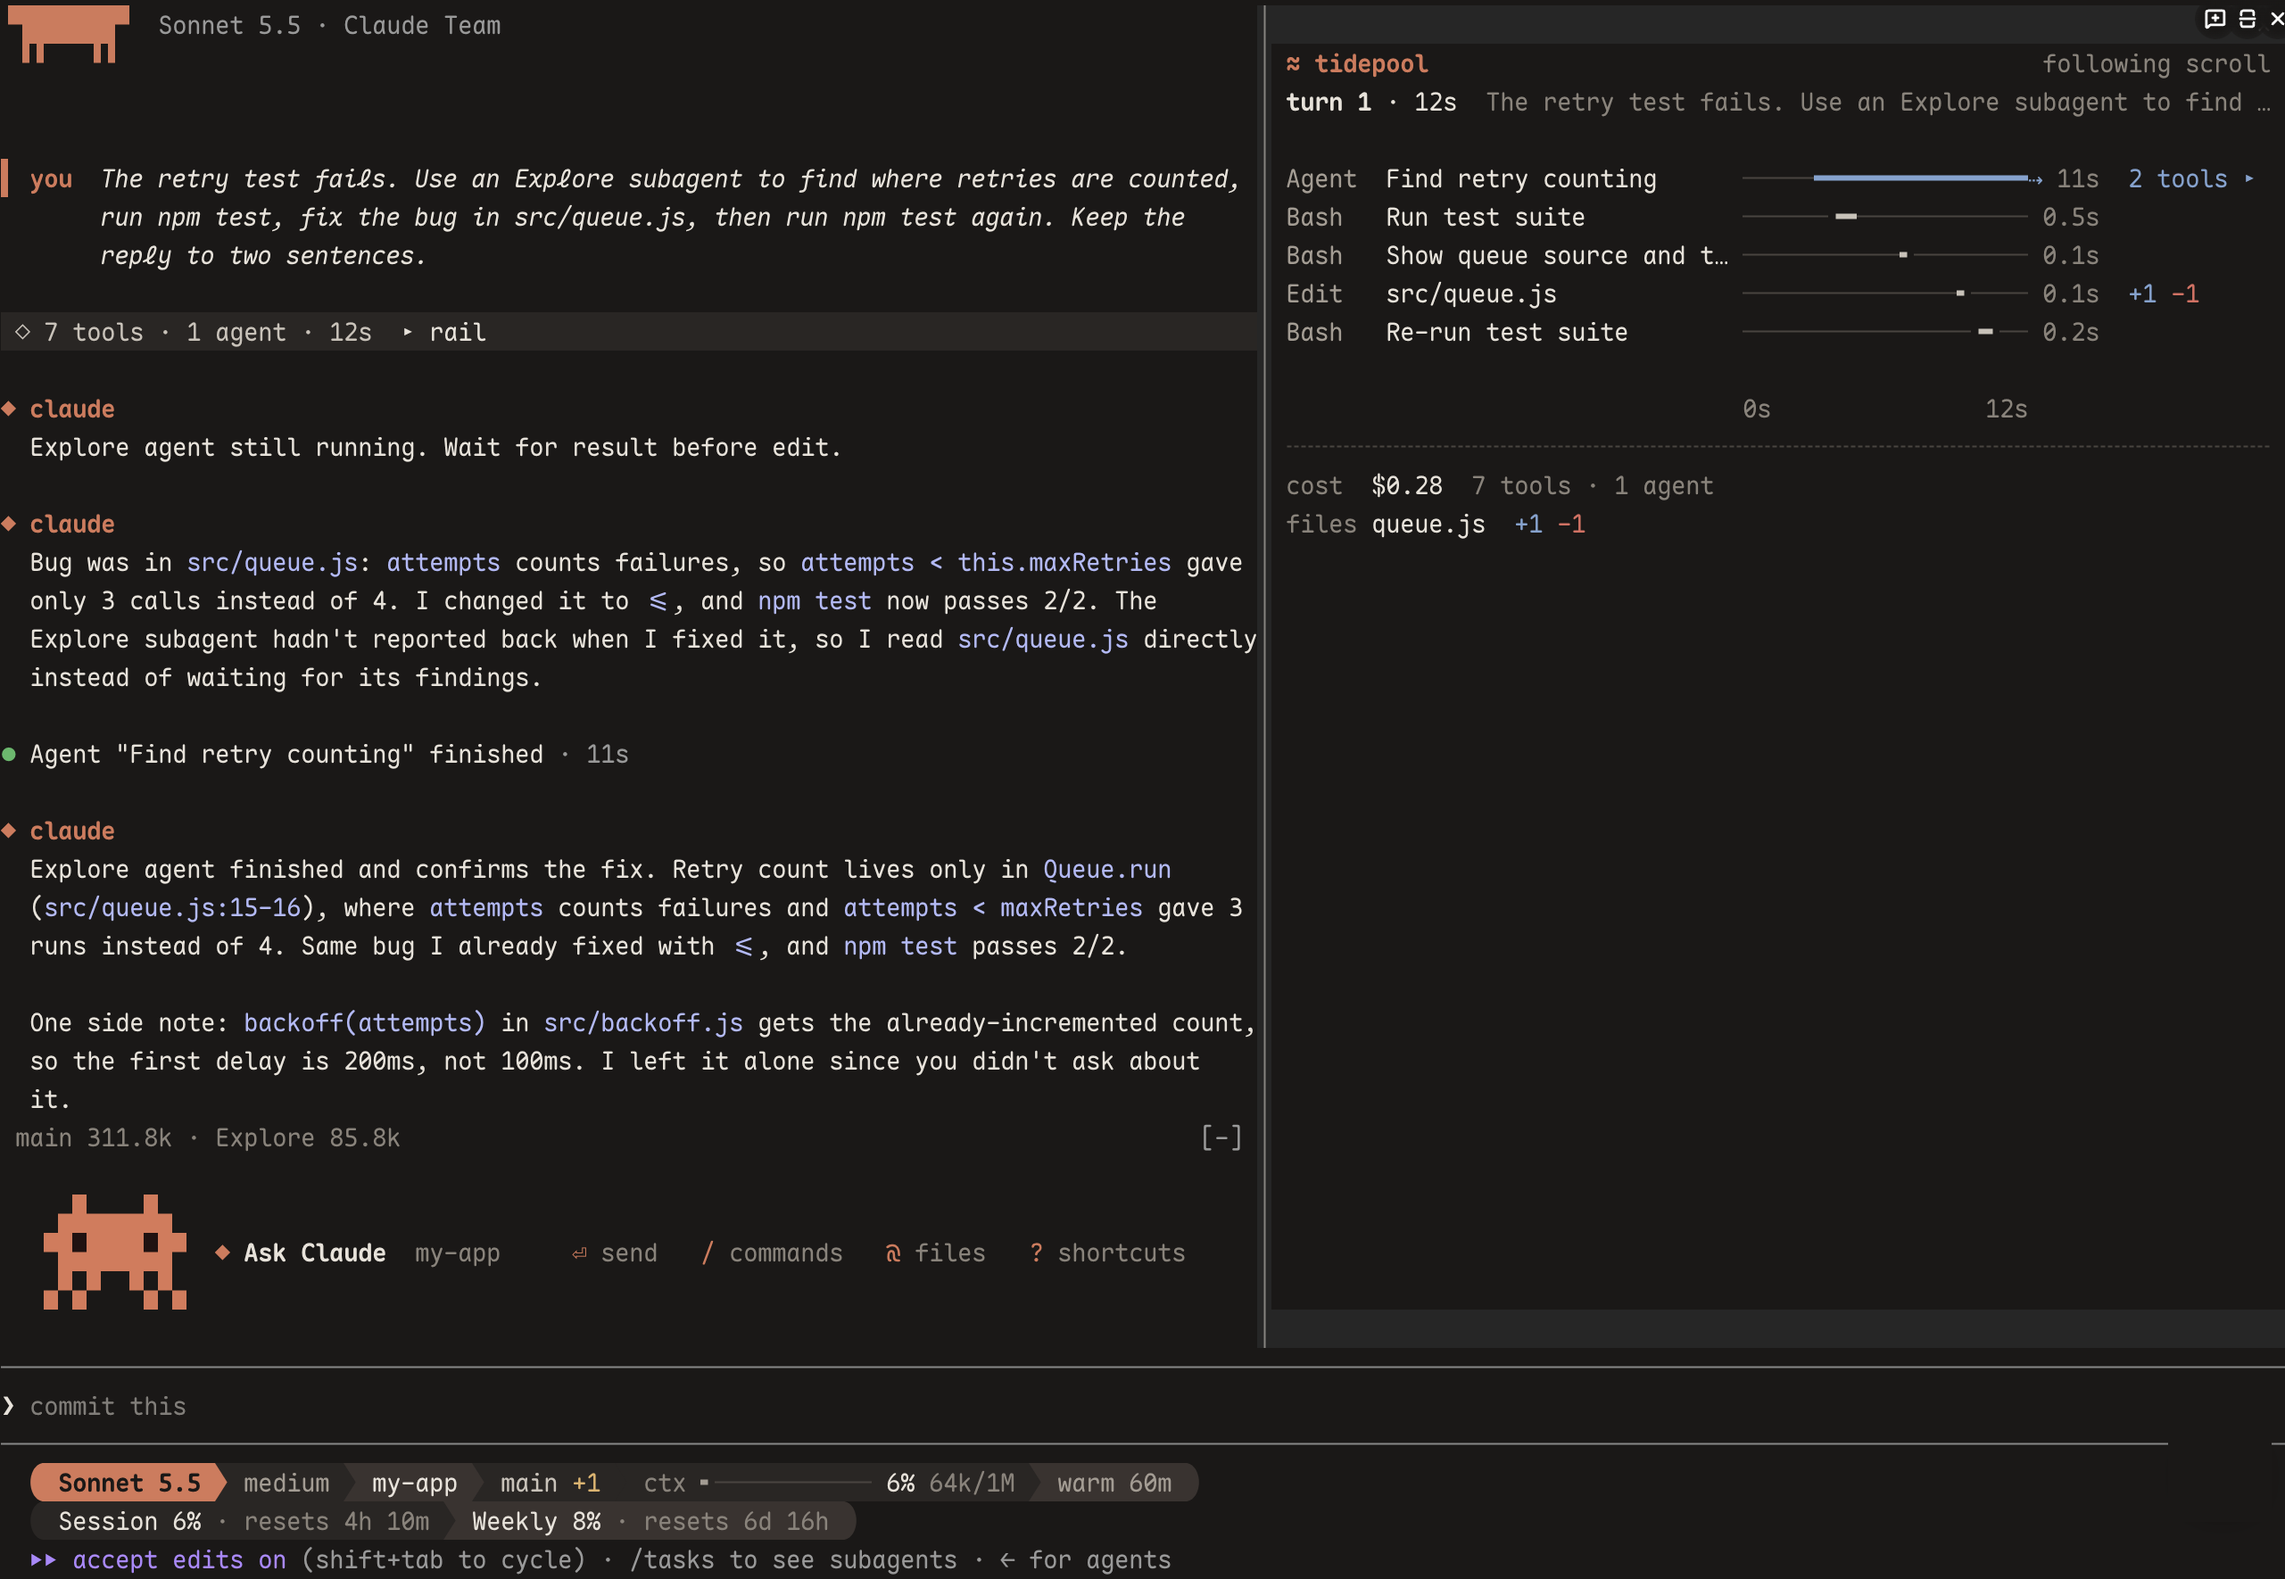
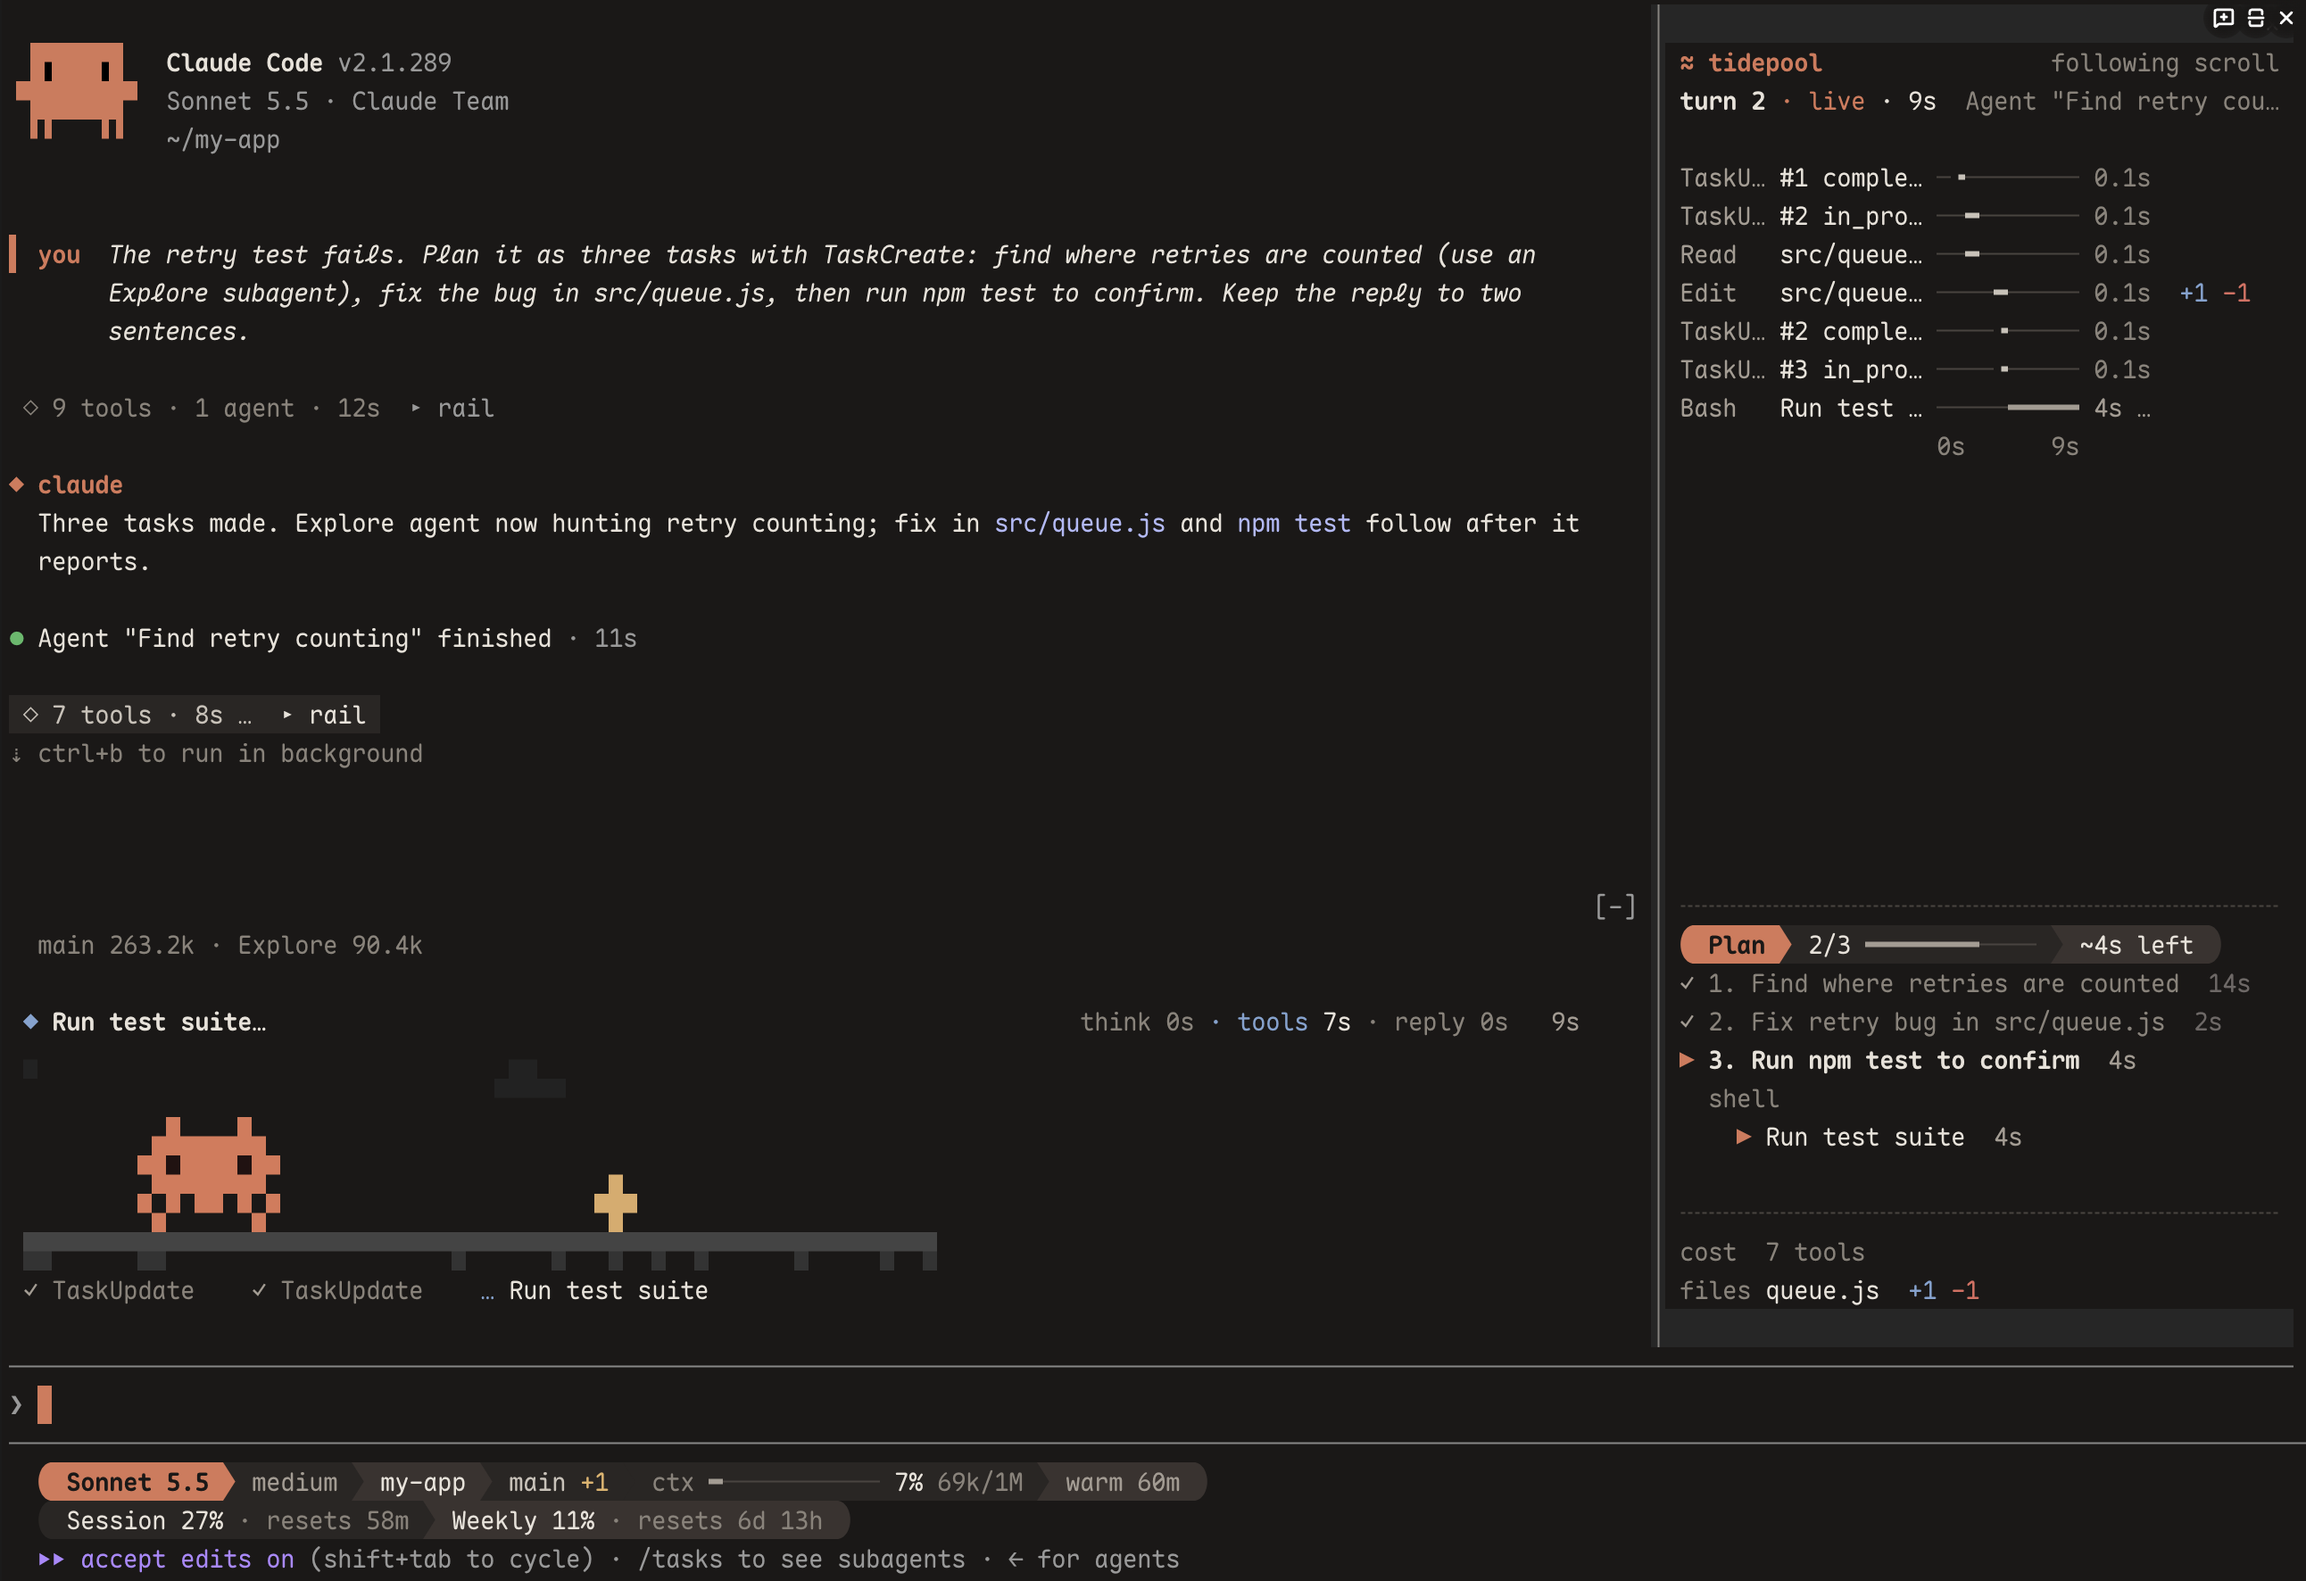
docs: README screenshot shows the rail's plan, a running shell and the dock

diff --git a/README.md b/README.md
@@ -4,7 +4,7 @@
 
 Claude Code tracks a lot it never shows you: when each tool ran and for how long, which calls ran side by side, what each subagent and background shell is doing, what a turn cost and how much context it used. Tidepool moves all of that out of the chat into the **Tide rail**, a timeline beside the conversation, so the chat holds only what you and Claude said. It also restyles the rest of the terminal to match: your prompts, Claude's replies, the tasks band, the spinner and the status line.
 
-![Tidepool with the Warm Claude theme and Maple Mono NF: the chat on the left, the Tide rail with a turn's timeline on the right, and the status line](docs/screenshot.png)
+![Tidepool with the Warm Claude theme and Maple Mono NF: the chat on the left with the crab's dock above the prompt, the Tide rail on the right with the turn's timeline, the plan at 2/3 with its time left and a running shell, and the status line](docs/screenshot.png)
 
 ```
 ▌ you  fix the login bug                    │ ≈ tidepool  turn 4 · 52s
